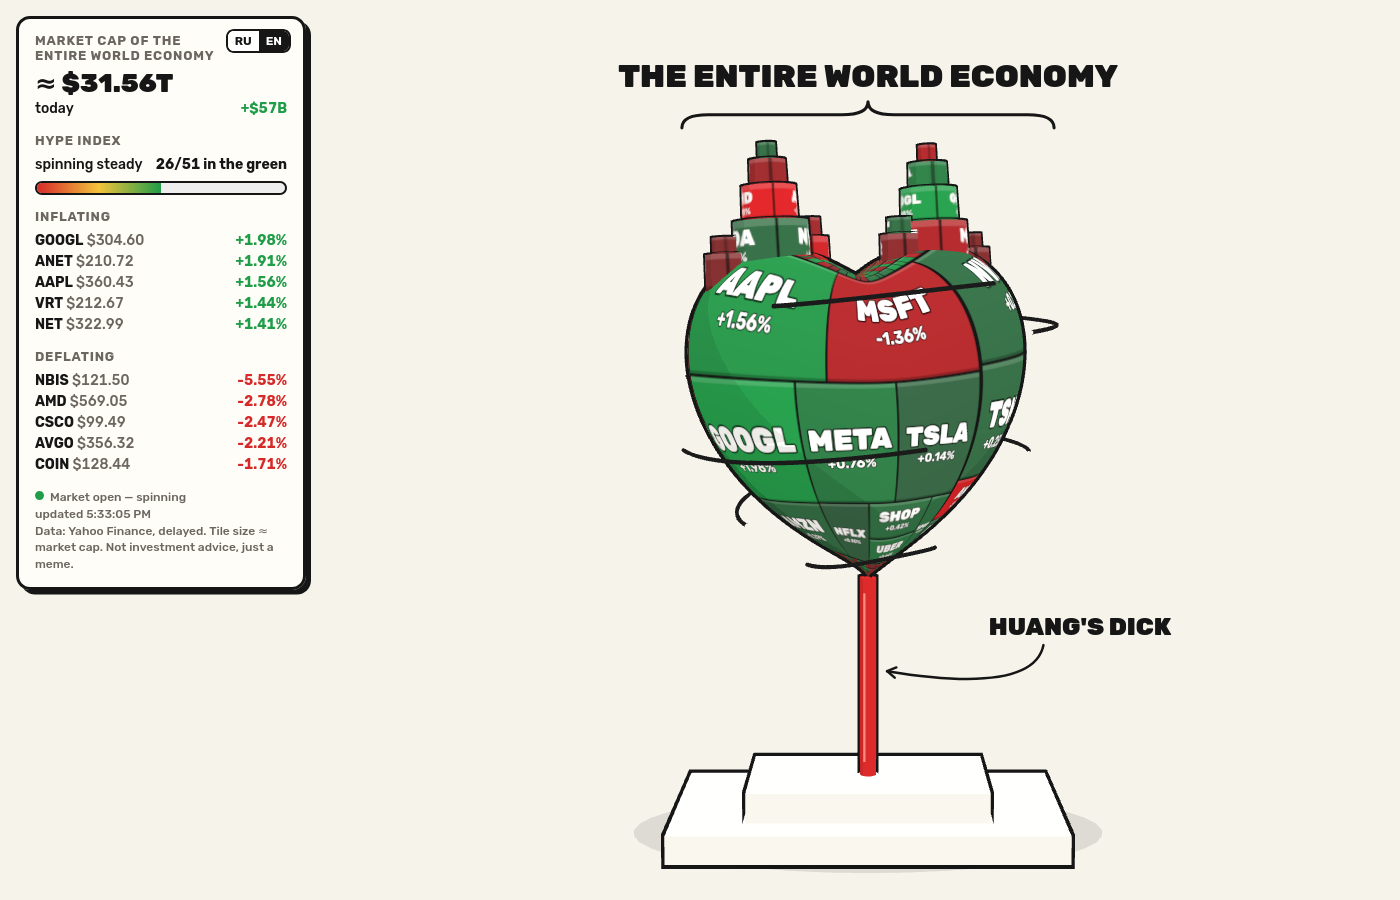
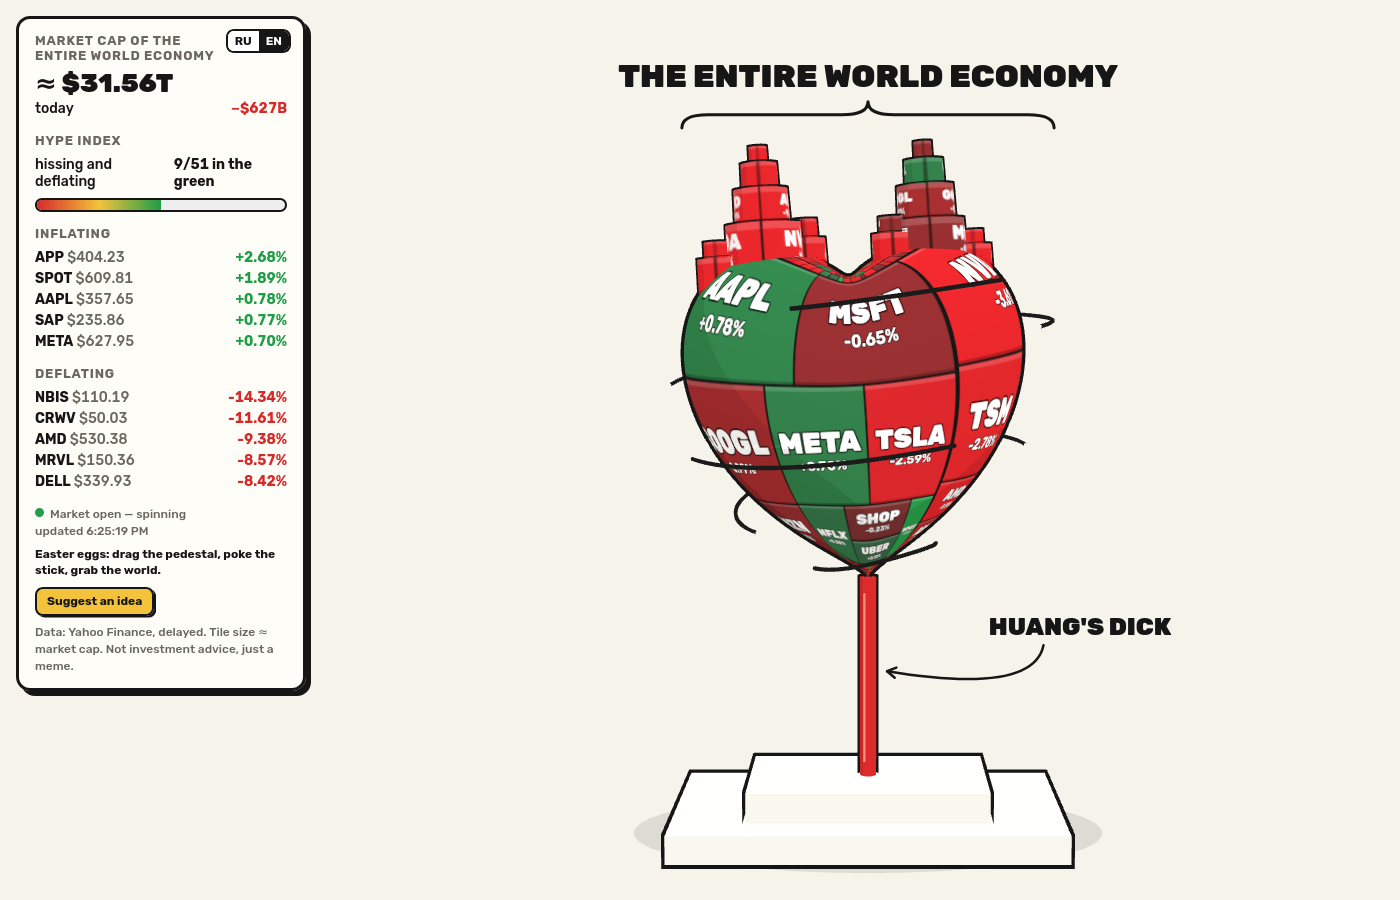
Update README and screenshots for easter eggs

Changed region(s): [[0.0, 0.1556, 0.2457, 0.7778], [0.4607, 0.1556, 0.7679, 0.6533], [0.1536, 0.0933, 0.215, 0.1244]]

diff --git a/README.md b/README.md
@@ -1,16 +1,33 @@
 # Jensenomics
 
-**RU** · Шуточный 3D-сайт: «вся мировая экономика» в виде treemap'а из 51 техкомпании с живыми котировками крутится на ~~пальце~~ Хуанга. Чем сильнее штормит рынок, тем быстрее крутится и сильнее шатается.
+**RU** · Шуточный 3D-сайт по мотивам мема: «вся мировая экономика» в виде treemap'а из 51 техкомпании с живыми котировками крутится на палке Хуанга. Чем сильнее штормит рынок, тем быстрее крутится и сильнее шатается. А ещё её можно уронить.
 
-**EN** · A joke 3D website: "the entire world economy", a live-quote treemap of 51 tech stocks, spinning on Jensen Huang's… well, you'll see. The more volatile the market, the faster it spins and the harder it wobbles.
+**EN** · A joke 3D website based on a meme: "the entire world economy", a live-quote treemap of 51 tech stocks, spinning on Jensen Huang's stick. The more volatile the market, the faster it spins and the harder it wobbles. You can also knock it over.
+
+![screenshot](docs/screenshot-ru.png)
+
+<details><summary>English version</summary>
 
 ![screenshot](docs/screenshot-en.png)
 
-<details><summary>Русская версия</summary>
-
-![скриншот](docs/screenshot-ru.png)
-
 </details>
+
+## Пасхалки / Easter eggs
+
+| | RU | EN |
+|---|---|---|
+| Постамент | Тащи мышкой или пальцем: мир шатается, но держит баланс. Резкий рывок роняет его. | Drag the pedestal: the world wobbles but keeps balance. Yank it and it falls. |
+| Палка | Тыкай в неё: каждый тычок раскачивает. Пара тычков в такт — и всё рушится. | Poke the stick: each poke rocks it. A couple in rhythm and it all comes down. |
+| Крен рынка | Пока мир кренится, рядом показан «Крен рынка −N%». | While tilting, a "Market tilt −N%" gauge shows how close it is to falling. |
+| Крах | «КРАХ! Вся мировая экономика −xx%», а потом Хуанг везёт новые видеокарты и всё чинит. | "CRASH! The entire world economy −xx%", then Jensen ships more GPUs and fixes it. |
+| Мир | Зажми, чтобы остановить, или раскрути рукой. | Hold it to stop the spin, or spin it by hand. |
+
+Есть идея пасхалки? Кнопка «Предложить идею» на сайте ведёт в [issues](https://github.com/btrvodka/jensenomics/issues/new). / Got an idea? The "Suggest an idea" button opens an [issue](https://github.com/btrvodka/jensenomics/issues/new).
+
+<p>
+  <img src="docs/crash-ru.png" width="68%" alt="крах">
+  <img src="docs/mobile-ru.png" width="22%" alt="мобильная версия">
+</p>
 
 ## Запуск / Run
 
@@ -53,6 +70,8 @@ docker run --rm -p 8080:8080 jensenomics
 - `quotes.go` — каждые N секунд забирает цену и % изменения за день с Yahoo Finance (`v8/finance/chart`), отдаёт их на `/api/quotes`. / Polls Yahoo Finance and serves `/api/quotes`.
 - `tickers.go` — список бумаг, групп и примерных капитализаций (капитализация только задаёт размер плиток). / Ticker list; market caps are rough and only set tile sizes.
 - `web/app.js` — сцена на three.js: сердце строится из неявного уравнения поверхности, treemap рисуется на canvas и натягивается текстурой, подписи — 2D-оверлей. Переключатель RU/EN в панели. / three.js scene, canvas-drawn treemap texture, RU/EN switch.
+- Физика пасхалок — перевёрнутый маятник с «балансировщиком»: пружина держит палку, рывки постамента и тычки её раскачивают; после порога крена мир слетает и падает с отскоками на постамент и пол. / Easter-egg physics: a self-balancing inverted pendulum; past the tilt threshold the world flies off and bounces off the pedestal and floor.
+- Скорость вращения зависит от средней волатильности, покачивание — от падения рынка. / Spin speed follows average volatility, wobble follows market drop.
 
 ## Дисклеймер / Disclaimer
 
